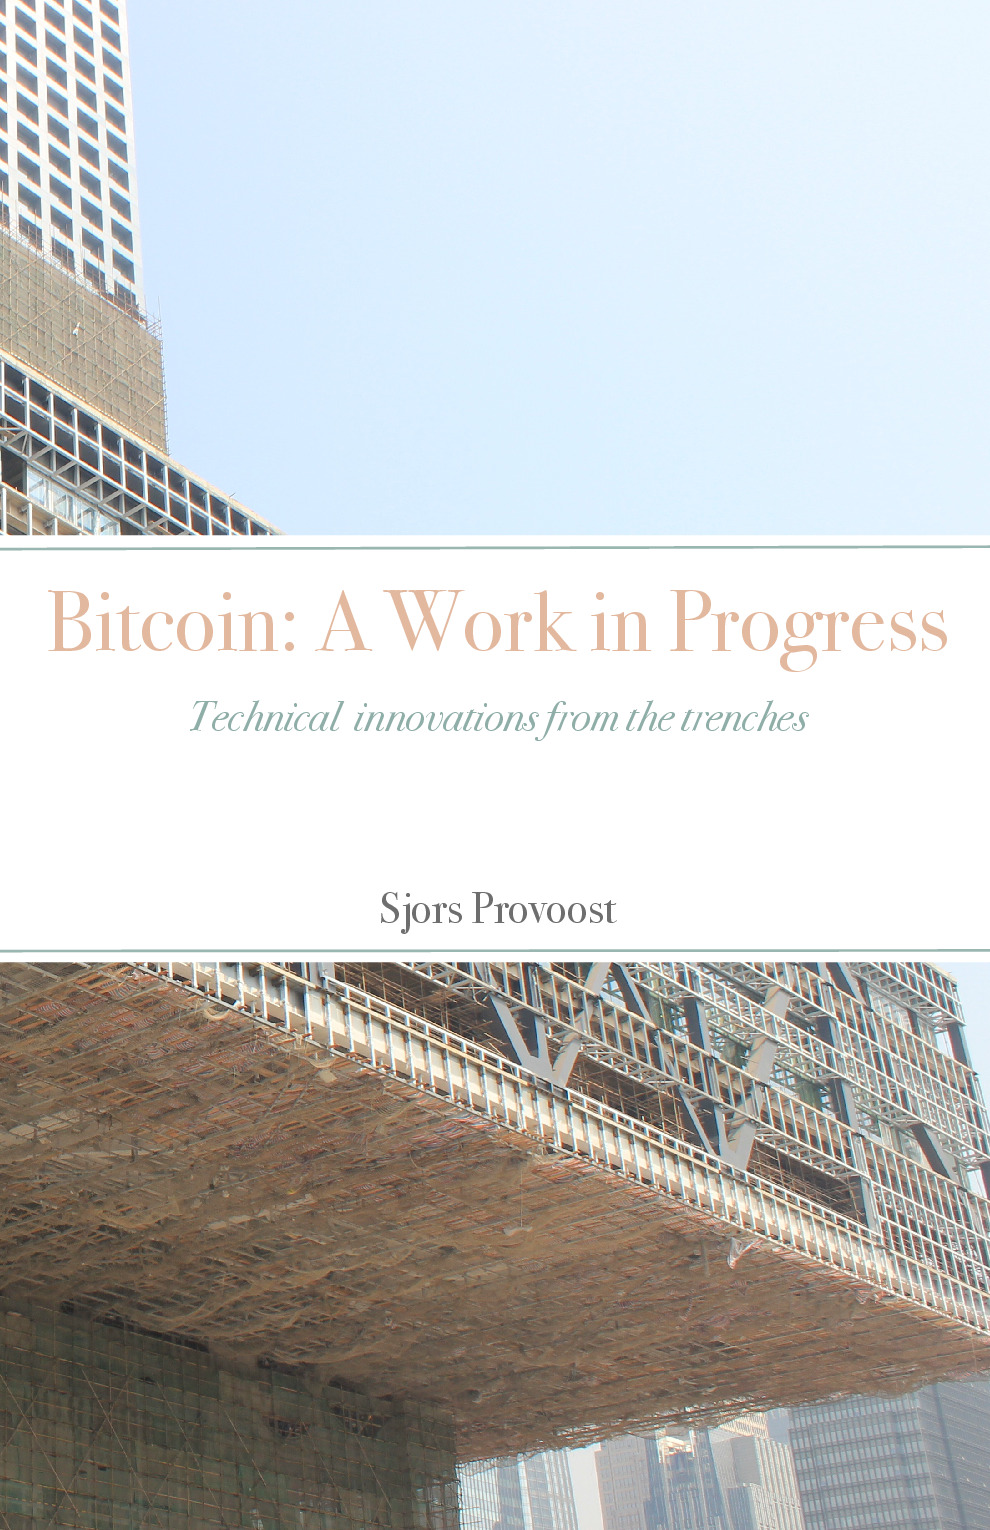
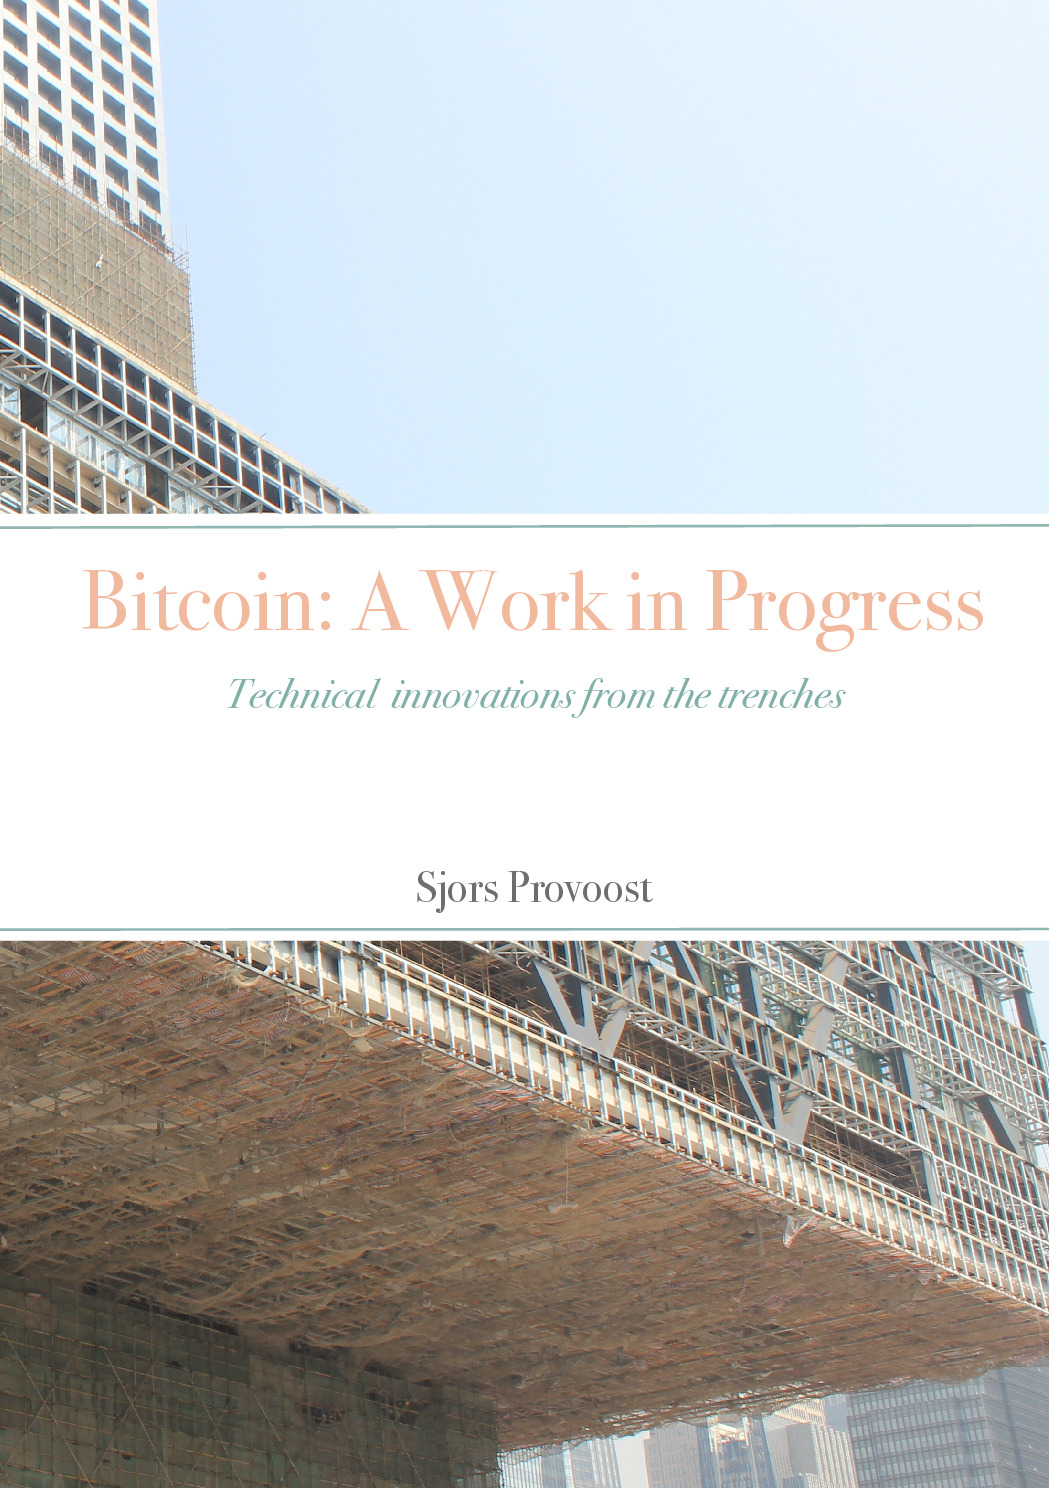
Sync docs front cover image from meta assets

diff --git a/scripts/export_cover_pdf.py b/scripts/export_cover_pdf.py
@@ -6,6 +6,10 @@ Run via Scribus, for example:
   /Applications/Scribus.app/Contents/MacOS/Scribus \
     --no-splash \
     --python-script scripts/export_cover_pdf.py
+
+Then refresh the JPEG previews and docs logo with:
+
+  scripts/export_cover_jpegs.sh
 """
 
 from __future__ import annotations

diff --git a/README.md b/README.md
@@ -66,16 +66,14 @@ To build a PDF that roughly fits an iPad:
 Note that `make_book.sh` builds the book interior. The cover PDF is still a separate manual export flow from the source files in `meta/`.
 
 
-To generate the jpeg cover images, export to PDF but set to PDF 1.6 and change
-Output Intended For to Screen / Web. Then do:
+To generate the jpeg cover images, first export the cover PDF from Scribus. Then run:
 
 ```sh
-cd meta
-convert -density 180 -define pdf:use-trimbox=true nado-cover-rgb.pdf -crop 52.25x100% +repage \( -clone 0 -crop 92x100% +repage -reverse \) -delete 0 -reverse slice.jpg
-mv slice-2.jpg ../docs/front.jpg
-mv slice-0.jpg ../docs/back.jpg
-mv slice-1.jpg spine.jpg
+scripts/export_cover_jpegs.sh
 ```
+
+This regenerates `meta/front.jpg`, `meta/back.jpg`, and `meta/spine.jpg`, and
+syncs `docs/front.jpg` for the website.
 
 ## Preview
 
